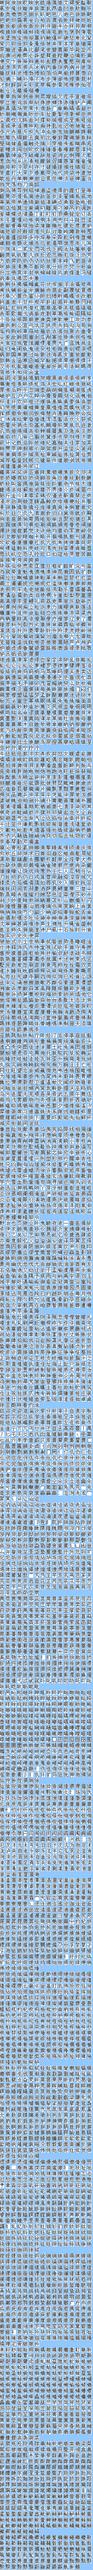
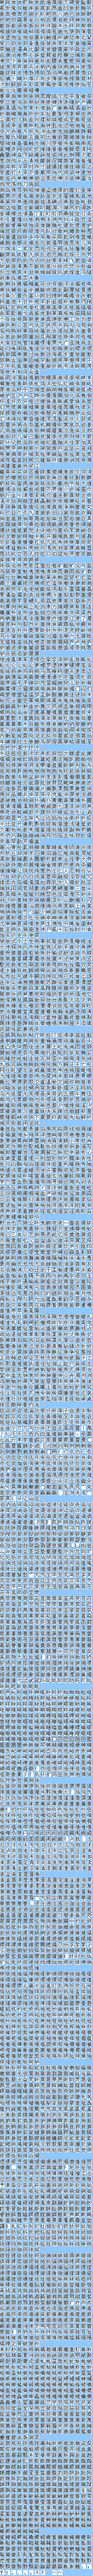
feat: Update font

diff --git a/tools/generate_font.py b/tools/generate_font.py
@@ -1,0 +1,94 @@
+import json
+import os
+
+from PIL import Image, ImageDraw, ImageFont
+
+os.chdir(os.path.dirname(__file__))
+
+with open("../charmap.txt", "r", -1, "utf8") as reader:
+  lines = reader.read().splitlines()
+
+char_map = {}
+max_code = -1
+
+start = False
+for line in lines:
+  line = line.split("@")[0].strip()
+  if not line:
+    continue
+
+  char, code = line.rsplit("=", 1)
+  char = char.strip()
+  code = int.from_bytes(bytes.fromhex(code), "big")
+
+  if char.startswith("'") and char.endswith("'"):
+    char = char[1:-1]
+    if char == "\\n":
+      char = "\n"
+    elif char == "\\'":
+      char = "'"
+  else:
+    char = f"{{{char}}}"
+
+  if ord(char[0]) >= 0x4E00:
+    start = True
+  if not start:
+    continue
+
+  char_map[code] = char
+  max_code = max(max_code, code)
+
+height = ((max_code >> 4) - 0x30 + 1) * 16
+
+configurations = [
+  {
+    "font_size": 12,
+    "font_path": "C:/Windows/Fonts/simsun.ttc",
+    "output_path": "chinese_normal.png",
+    "y_offset": 0,
+  },
+  {
+    "font_size": 10,
+    "font_path": "C:/Users/Xzonn/AppData/Local/Microsoft/Windows/Fonts/DinkieBitmap-9px.ttf",
+    "output_path": "chinese_small.png",
+    "y_offset": 3,
+  },
+]
+
+colors = (0x90, 0xC8, 0xFF, 0x38, 0x38, 0x38, 0xD8, 0xD8, 0xD8, 0xFF, 0xFF, 0xFF)
+palette = Image.new("P", (8, 8))
+palette.putpalette(colors)
+
+for config in configurations:
+  font_size: int = config["font_size"]
+  font_path: str = config["font_path"]
+  output_path: str = config["output_path"]
+  y_offset: int = config["y_offset"]
+
+  image = Image.new("RGB", (256, height), "#90c8ff")
+
+  image_draw = ImageDraw.Draw(image)
+  font = ImageFont.truetype(font_path, font_size)
+
+  for code, char in char_map.items():
+    high, low = code >> 8, code & 0xFF
+    offset = 1 if high < 0x06 else (2 if high < 0x1B else 3)
+    y = (high - offset) * 0x100 + (low >> 4) * 0x10
+    x = (low & 0x0F) * 16
+    tile = Image.new("RGBA", (font_size, font_size + 2))
+    draw = ImageDraw.Draw(tile)
+    for y2 in (1, 0):
+      for x2 in (1, 0):
+        draw.text((x2, y2), f"{char}　　黑鼠龙龟", "#383838" if x2 + y2 == 0 else "#d8d8d8", font, "lt")
+    box = tile.getbbox()
+    if char in "：；？！，．、。" and box:
+      new_tile = Image.new("RGBA", tile.size)
+      tile = tile.crop((0, box[1], tile.width, box[3]))
+      new_tile.paste(tile, (0, (new_tile.height - tile.height) - 1))
+      tile = new_tile
+
+    image_draw.rectangle((x, y + y_offset, x + font_size - 1, y + font_size + y_offset), "#ffffff")
+    image.paste(tile, (x, y + y_offset), tile)
+
+  image = image.quantize(palette=palette, dither=Image.Dither.NONE)
+  image.save(f"../graphics/fonts/{output_path}")
